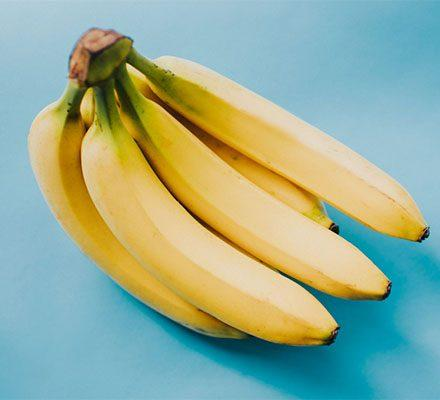
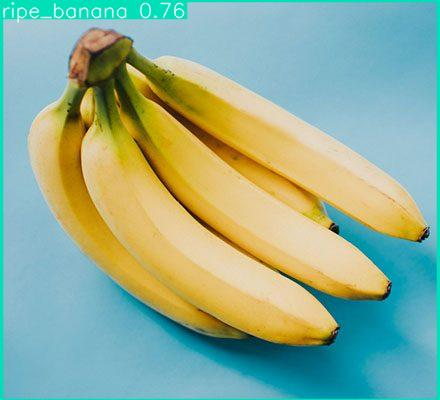
all done exept for ui

Changed region(s): [[0.0, 0.0, 1.0, 1.0]]

diff --git a/app.py b/app.py
@@ -1,49 +1,64 @@
 import os
 from PIL import Image
-import io
 import cv2
 import numpy as np
 import torch
 from flask import Flask, render_template, request, redirect, Response, send_from_directory
+from werkzeug.utils import secure_filename
 
 app = Flask(__name__)
 
 # Load custom YOLOv5 model
-model = torch.hub.load(
-    "yolov5", 
-    "custom", 
-    path="./best.pt", 
-    force_reload=True, 
-    source="local"
-)
-model.eval()
-model.conf = 0.6
-model.iou = 0.45
+try:
+    model = torch.hub.load(
+        "yolov5", 
+        "custom", 
+        path="./best.pt", 
+        force_reload=True, 
+        source="local"
+    )
+    model.eval()
+    model.conf = 0.1  # Lower confidence threshold for more detections
+    model.iou = 0.45
+except Exception as e:
+    print(f"Error loading model: {e}")
+    exit(1)
 
 # Create required directories
 os.makedirs('static/uploads', exist_ok=True)
 os.makedirs('static/results', exist_ok=True)
 
+ALLOWED_EXTENSIONS = {'png', 'jpg', 'jpeg', 'gif', 'mp4'}
+
+def allowed_file(filename):
+    return '.' in filename and filename.rsplit('.', 1)[1].lower() in ALLOWED_EXTENSIONS
+
 def gen_frames(source=0):
     """Video streaming generator function"""
     cap = cv2.VideoCapture(source)
-    while True:
-        success, frame = cap.read()
-        if not success:
-            break
-        else:
-            # Convert frame to PIL Image for YOLOv5
-            img = Image.fromarray(cv2.cvtColor(frame, cv2.COLOR_BGR2RGB))
-            results = model(img, size=640)
-            
-            # Render detections and convert back to OpenCV format
-            rendered_img = np.squeeze(results.render())
-            frame = cv2.cvtColor(rendered_img, cv2.COLOR_RGB2BGR)
-            
-            ret, buffer = cv2.imencode('.jpg', frame)
-            frame = buffer.tobytes()
-            yield (b'--frame\r\n'
-                   b'Content-Type: image/jpeg\r\n\r\n' + frame + b'\r\n')
+    try:
+        while True:
+            success, frame = cap.read()
+            if not success:
+                break
+            else:
+                # Convert frame to PIL Image for YOLOv5
+                img = Image.fromarray(cv2.cvtColor(frame, cv2.COLOR_BGR2RGB))
+                results = model(img, size=640)
+                
+                # Debugging: Print detections
+                print(results.pandas().xyxy[0])
+                
+                # Render detections and convert back to OpenCV format
+                rendered_img = np.squeeze(results.render())
+                frame = cv2.cvtColor(rendered_img, cv2.COLOR_RGB2BGR)
+                
+                ret, buffer = cv2.imencode('.jpg', frame)
+                frame = buffer.tobytes()
+                yield (b'--frame\r\n'
+                       b'Content-Type: image/jpeg\r\n\r\n' + frame + b'\r\n')
+    finally:
+        cap.release()
 
 @app.route('/')
 def index():
@@ -65,20 +80,31 @@ def upload_image():
         file = request.files['file']
         if file.filename == '':
             return redirect(request.url)
-        if file:
-            # Save uploaded file
-            filename = os.path.join('static/uploads', file.filename)
-            file.save(filename)
+        if file and allowed_file(file.filename):
+            # Save uploaded file securely
+            filename = secure_filename(file.filename)
+            filepath = os.path.join('static/uploads', filename)
+            file.save(filepath)
             
-            # Process image
-            img = Image.open(filename)
-            results = model(img, size=640)
-            results.render()
-            rendered_img = Image.fromarray(np.squeeze(results.render()))
-            result_path = os.path.join('static/results', file.filename)
-            rendered_img.save(result_path)
-            
-            return render_template('result.html', result_image=result_path)
+            try:
+                # Process image
+                img = Image.open(filepath).convert("RGB")  # Ensure RGB format
+                results = model(img, size=640)
+                
+                # Debugging: Print detections
+                print(results.pandas().xyxy[0])
+                
+                # Render detections
+                rendered_img = results.render()
+                rendered_img = Image.fromarray(np.squeeze(rendered_img))
+                result_path = os.path.join('static/results', filename)
+                rendered_img.save(result_path)
+                
+                return render_template('result.html', result_image=result_path)
+            except Exception as e:
+                return f"Error processing file: {str(e)}"
+        else:
+            return "Invalid file type.", 400
     return render_template('upload_image.html')
 
 @app.route('/upload_video', methods=['GET', 'POST'])
@@ -89,37 +115,51 @@ def upload_video():
         file = request.files['file']
         if file.filename == '':
             return redirect(request.url)
-        if file:
-            # Save uploaded video
-            filename = os.path.join('static/uploads', file.filename)
-            file.save(filename)
+        if file and allowed_file(file.filename):
+            # Save uploaded video securely
+            filename = secure_filename(file.filename)
+            filepath = os.path.join('static/uploads', filename)
+            file.save(filepath)
             
             # Video processing generator
             def generate_video_frames():
-                cap = cv2.VideoCapture(filename)
-                while True:
-                    success, frame = cap.read()
-                    if not success:
-                        break
-                    # Process frame (same as webcam)
-                    img = Image.fromarray(cv2.cvtColor(frame, cv2.COLOR_BGR2RGB))
-                    results = model(img, size=640)
-                    rendered_img = np.squeeze(results.render())
-                    frame = cv2.cvtColor(rendered_img, cv2.COLOR_RGB2BGR)
-                    ret, buffer = cv2.imencode('.jpg', frame)
-                    frame = buffer.tobytes()
-                    yield (b'--frame\r\n'
-                           b'Content-Type: image/jpeg\r\n\r\n' + frame + b'\r\n')
-                cap.release()
+                cap = cv2.VideoCapture(filepath)
+                try:
+                    while True:
+                        success, frame = cap.read()
+                        if not success:
+                            break
+                        
+                        # Process frame
+                        img = Image.fromarray(cv2.cvtColor(frame, cv2.COLOR_BGR2RGB))
+                        results = model(img, size=640)
+                        
+                        # Debugging: Print detections
+                        print(results.pandas().xyxy[0])
+                        
+                        # Render detections and convert back to OpenCV format
+                        rendered_img = np.squeeze(results.render())
+                        frame = cv2.cvtColor(rendered_img, cv2.COLOR_RGB2BGR)
+                        
+                        ret, buffer = cv2.imencode('.jpg', frame)
+                        frame = buffer.tobytes()
+                        yield (b'--frame\r\n'
+                               b'Content-Type: image/jpeg\r\n\r\n' + frame + b'\r\n')
+                finally:
+                    cap.release()
             
             return Response(
                 generate_video_frames(),
                 mimetype='multipart/x-mixed-replace; boundary=frame'
             )
+        else:
+            return "Invalid file type.", 400
     return render_template('upload_video.html')
 
 @app.route('/uploads/<filename>')
 def uploaded_file(filename):
+    if not allowed_file(filename):
+        return "Invalid file type.", 400
     return send_from_directory('static/uploads', filename)
 
 if __name__ == "__main__":
